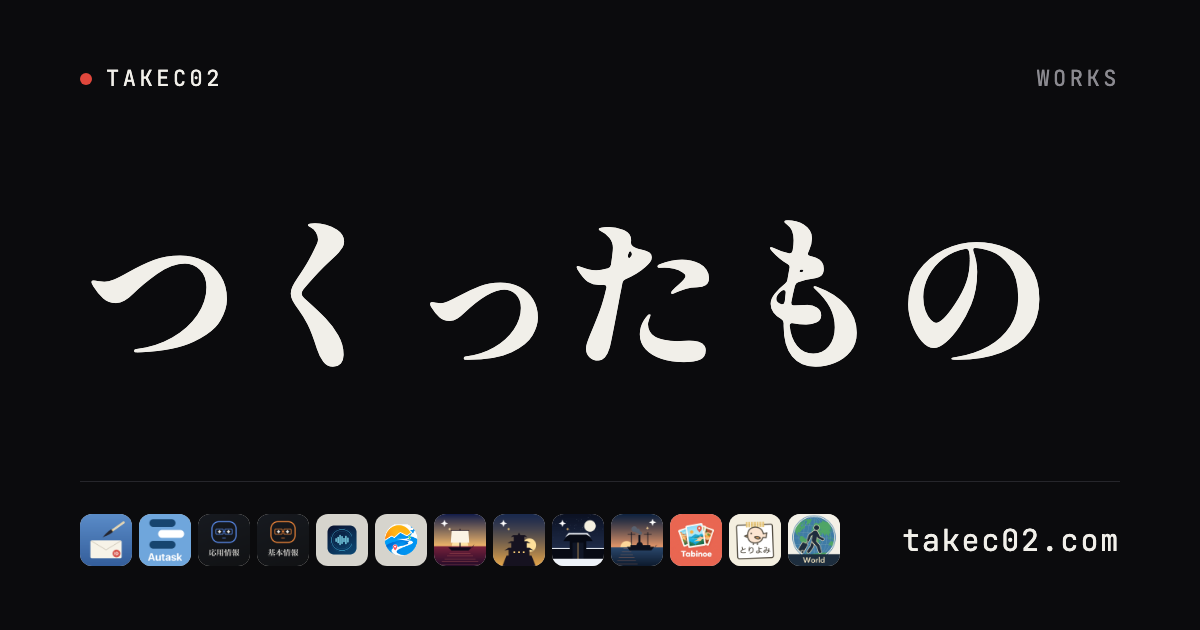
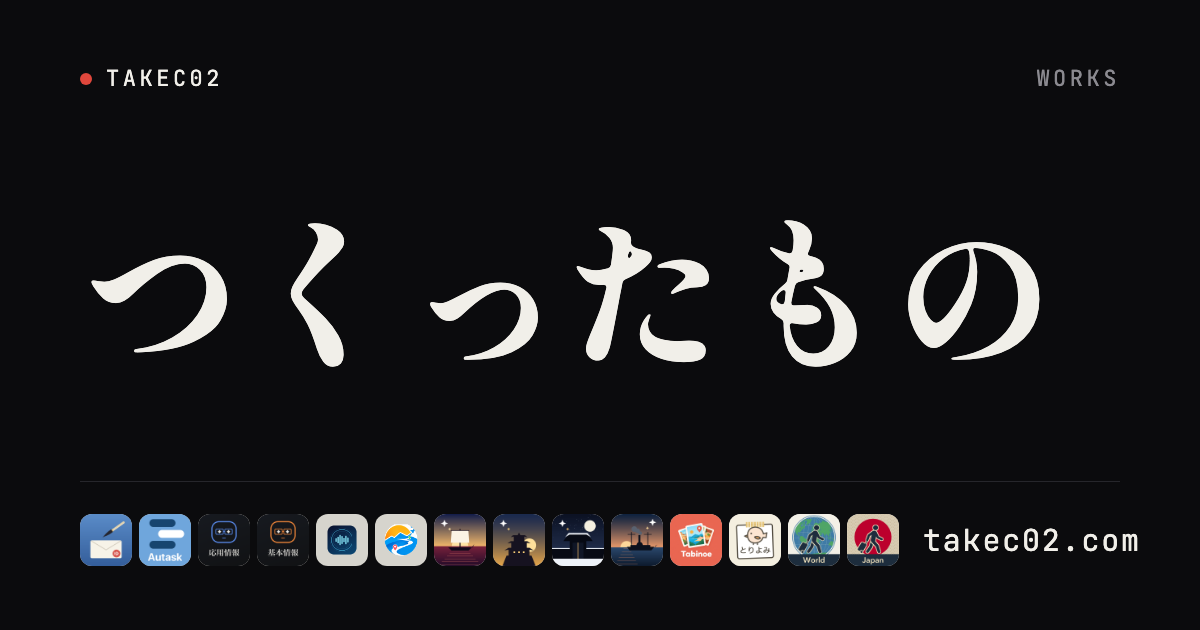
JapanWalk を準備中で載せる

Changed region(s): [[0.6783, 0.8143, 0.9558, 0.9048]]

diff --git a/index.html b/index.html
@@ -203,6 +203,17 @@
       </div>
     </article>
 
+    <article class="card" data-status="soon" style="--g:linear-gradient(165deg,#f4f1e8 0%,#bc002d 55%,#1d2d3d 100%);--num:rgba(255,255,255,.75)">
+      <div class="card-top">
+        <img class="icon" src="icons/japanwalk.png" alt="JapanWalk" loading="lazy">
+      </div>
+      <div class="card-body">
+        <h2>JapanWalk</h2>
+        <p>Wi-Fiなしで、日本を歩く。</p>
+        <p class="meta">iPhone　近日公開予定</p>
+      </div>
+    </article>
+
   </section>
 
   <footer class="footer">
